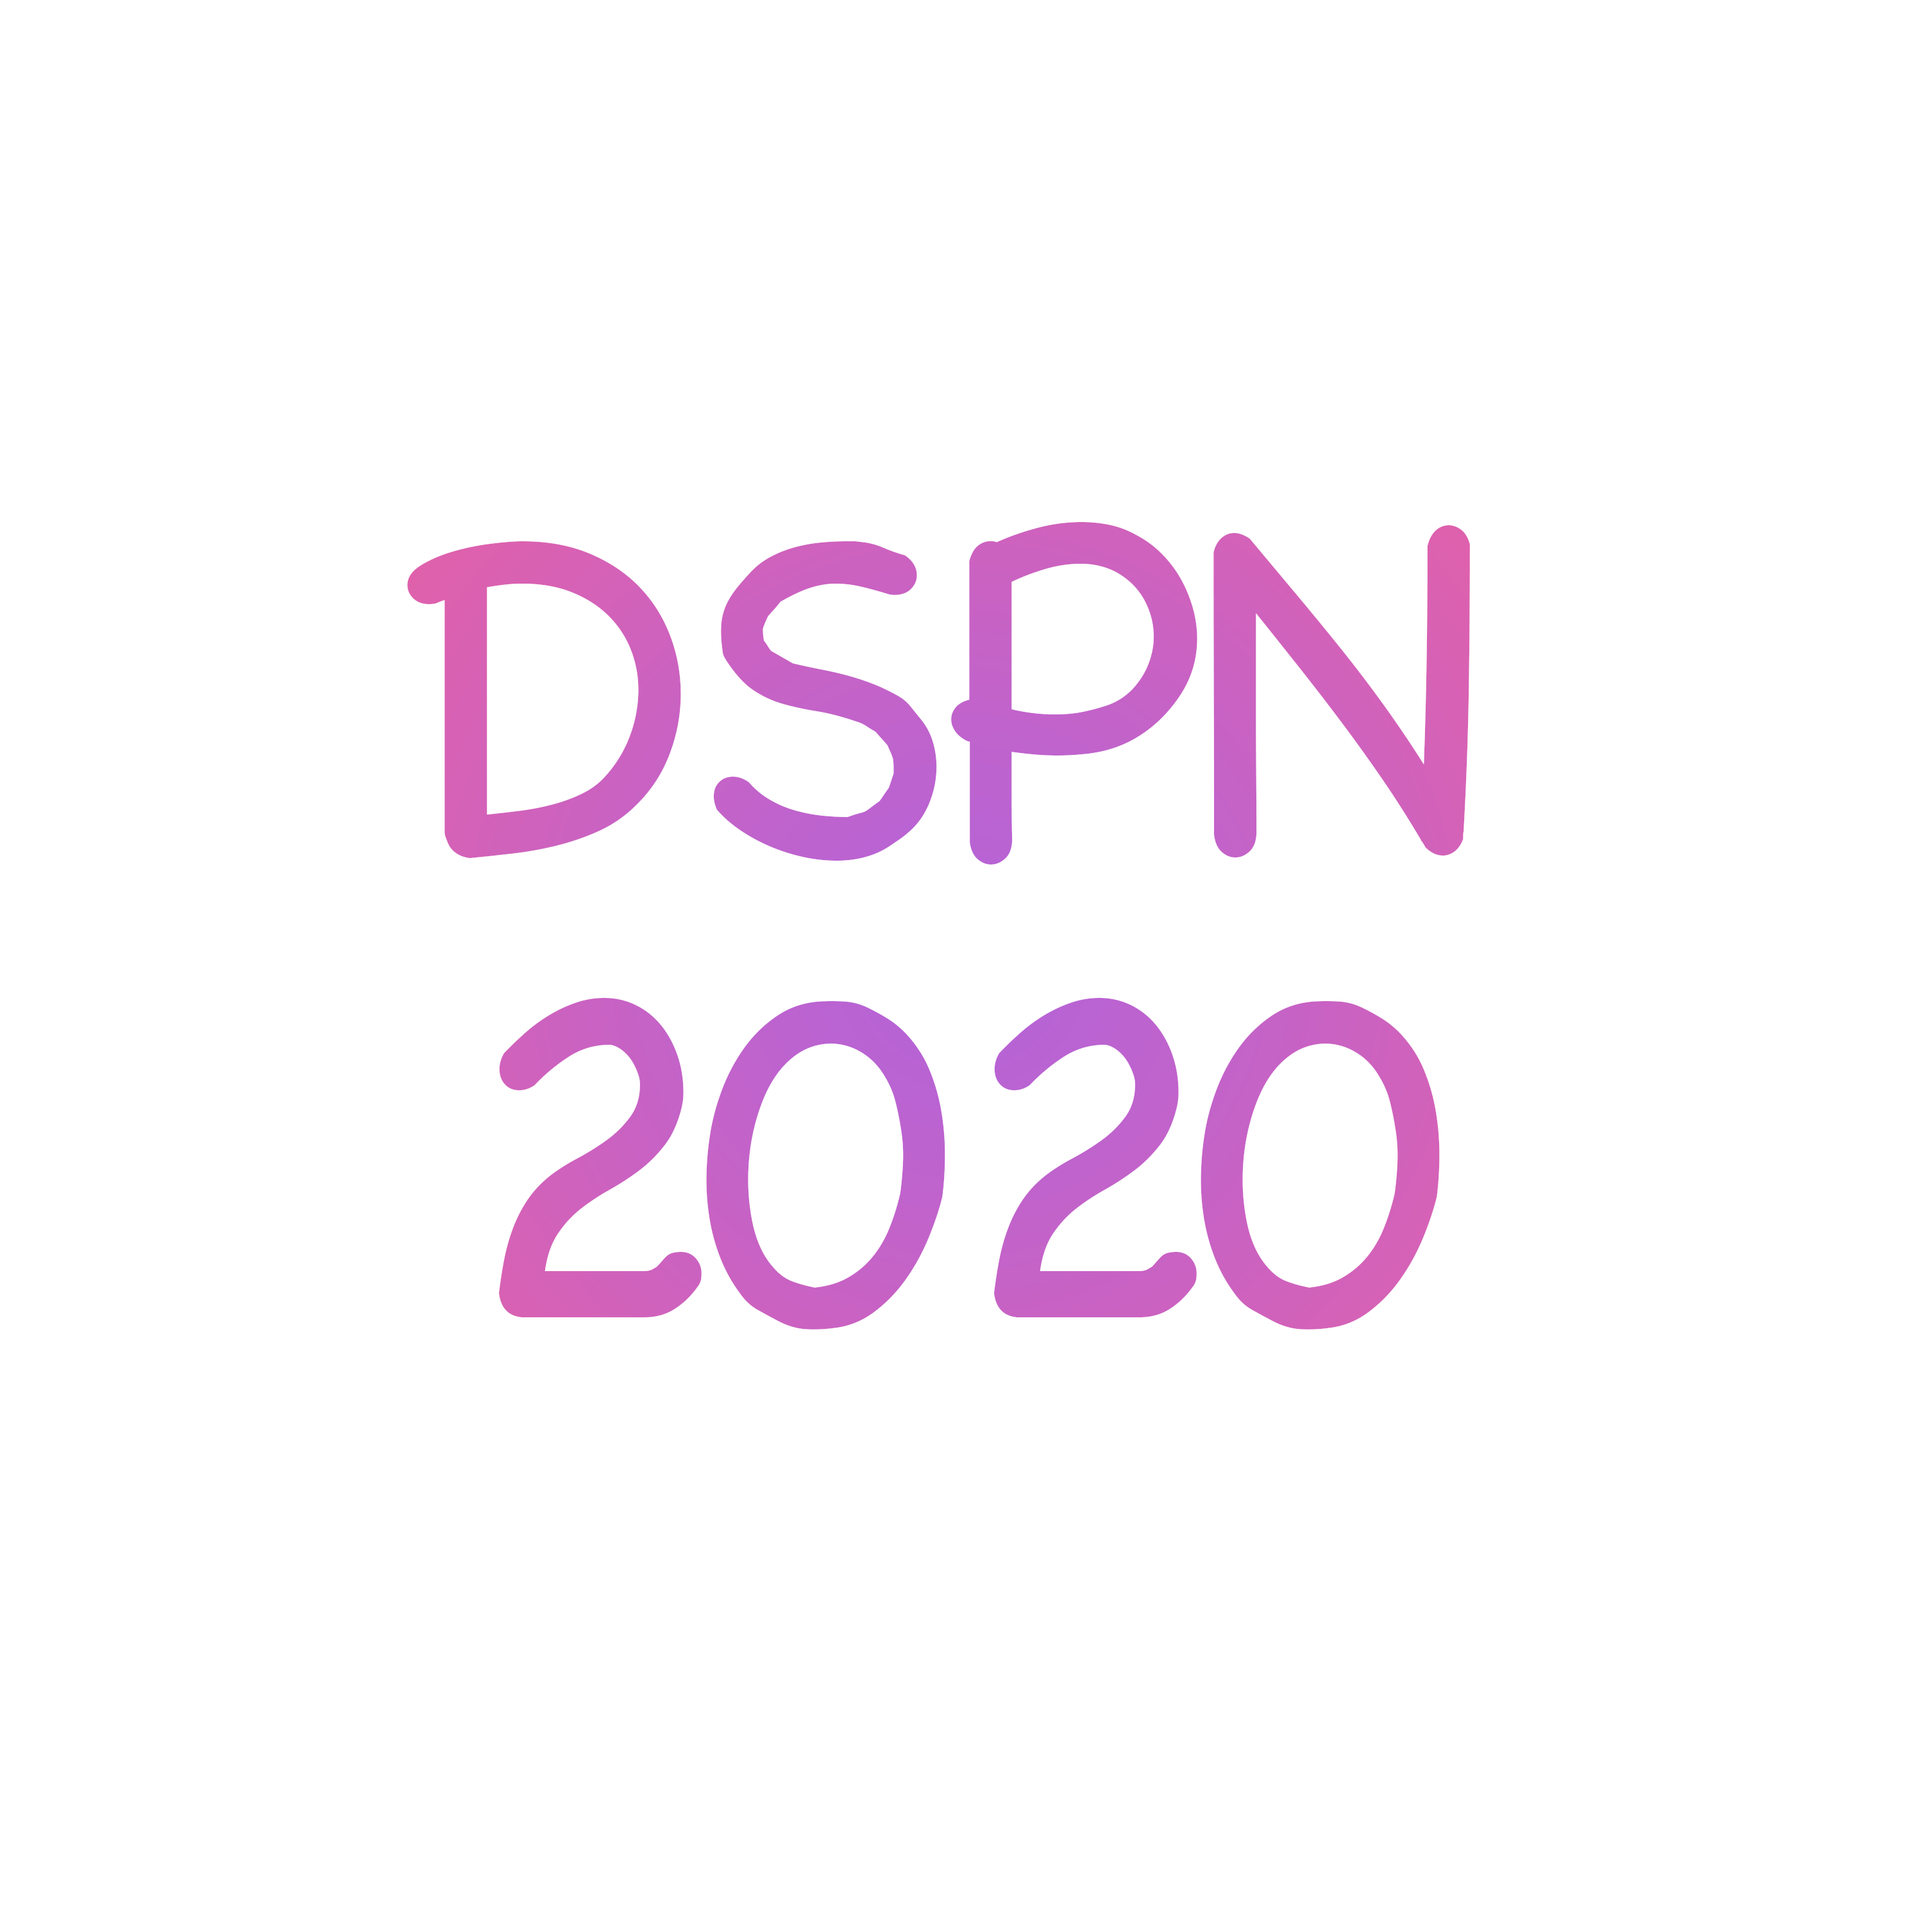
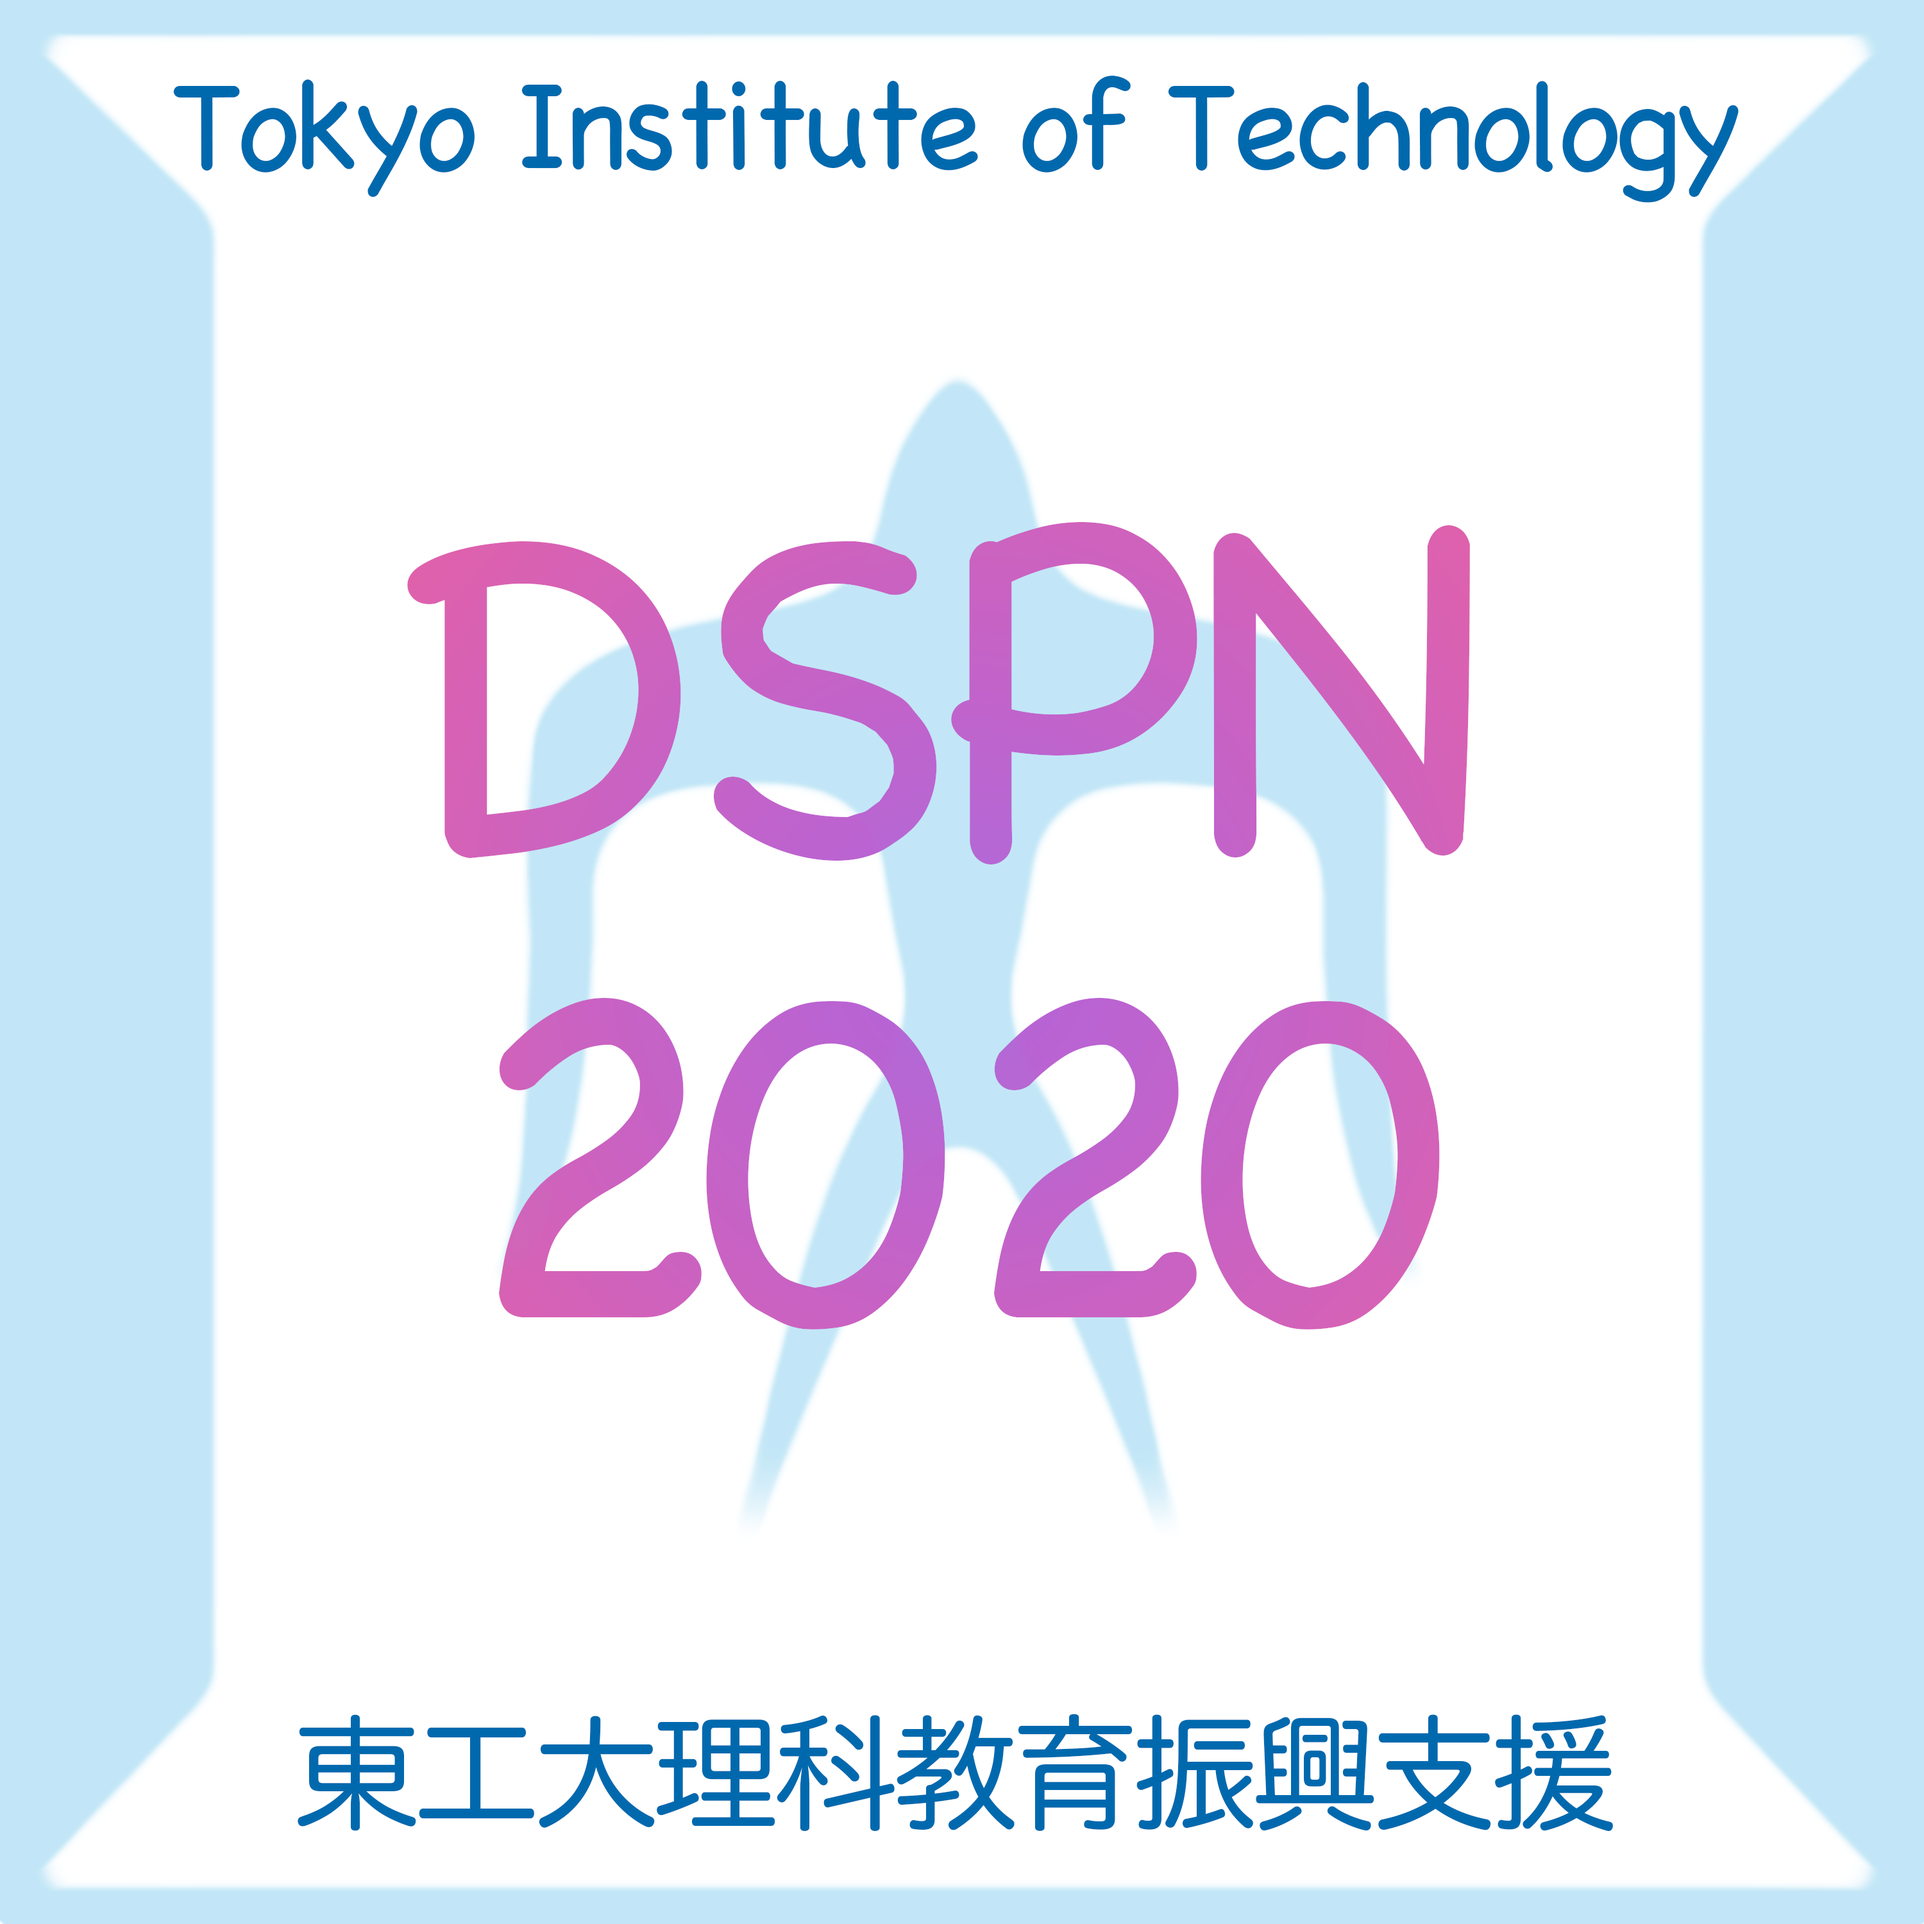
ロゴ変えた

diff --git a/html/test/kikin.html b/html/test/kikin.html
@@ -39,7 +39,7 @@
     
     <link rel="index" title="索引" href="../genindex.html" />
     <link rel="search" title="検索" href="../search.html" />
-    <link rel="prev" title="組織委員会" href="member.html" /> 
+    <link rel="prev" title="実行委員会" href="member.html" /> 
 </head>
 
 <body class="wy-body-for-nav">
@@ -58,7 +58,7 @@
 
           
             
-            <img src="../_static/dspn2020_logo.png" class="logo" alt="Logo"/>
+            <img src="../_static/dspn2020.png" class="logo" alt="Logo"/>
           
           </a>
 
@@ -91,7 +91,7 @@
 <li class="toctree-l1"><a class="reference internal" href="time_table.html">プログラム</a></li>
 </ul>
 <ul>
-<li class="toctree-l1"><a class="reference internal" href="member.html">組織委員会</a></li>
+<li class="toctree-l1"><a class="reference internal" href="member.html">実行委員会</a></li>
 </ul>
 <ul class="current">
 <li class="toctree-l1 current"><a class="current reference internal" href="#">東工大理科教育振興支援</a></li>
@@ -174,7 +174,7 @@
     <div class="rst-footer-buttons" role="navigation" aria-label="footer navigation">
       
       
-        <a href="member.html" class="btn btn-neutral float-left" title="組織委員会" accesskey="p" rel="prev"><span class="fa fa-arrow-circle-left"></span> Previous</a>
+        <a href="member.html" class="btn btn-neutral float-left" title="実行委員会" accesskey="p" rel="prev"><span class="fa fa-arrow-circle-left"></span> Previous</a>
       
     </div>
   

diff --git a/html/test/member.html b/html/test/member.html
@@ -59,7 +59,7 @@
 
           
             
-            <img src="../_static/dspn2020_logo.png" class="logo" alt="Logo"/>
+            <img src="../_static/dspn2020.png" class="logo" alt="Logo"/>
           
           </a>
 

diff --git a/html/test/time_table.html b/html/test/time_table.html
@@ -59,7 +59,7 @@
 
           
             
-            <img src="../_static/dspn2020_logo.png" class="logo" alt="Logo"/>
+            <img src="../_static/dspn2020.png" class="logo" alt="Logo"/>
           
           </a>
 

diff --git a/html/genindex.html b/html/genindex.html
@@ -57,7 +57,7 @@
 
           
             
-            <img src="_static/dspn2020_logo.png" class="logo" alt="Logo"/>
+            <img src="_static/dspn2020.png" class="logo" alt="Logo"/>
           
           </a>
 

diff --git a/html/index.html b/html/index.html
@@ -58,7 +58,7 @@
 
           
             
-            <img src="_static/dspn2020_logo.png" class="logo" alt="Logo"/>
+            <img src="_static/dspn2020.png" class="logo" alt="Logo"/>
           
           </a>
 

diff --git a/html/search.html b/html/search.html
@@ -59,7 +59,7 @@
 
           
             
-            <img src="_static/dspn2020_logo.png" class="logo" alt="Logo"/>
+            <img src="_static/dspn2020.png" class="logo" alt="Logo"/>
           
           </a>
 
